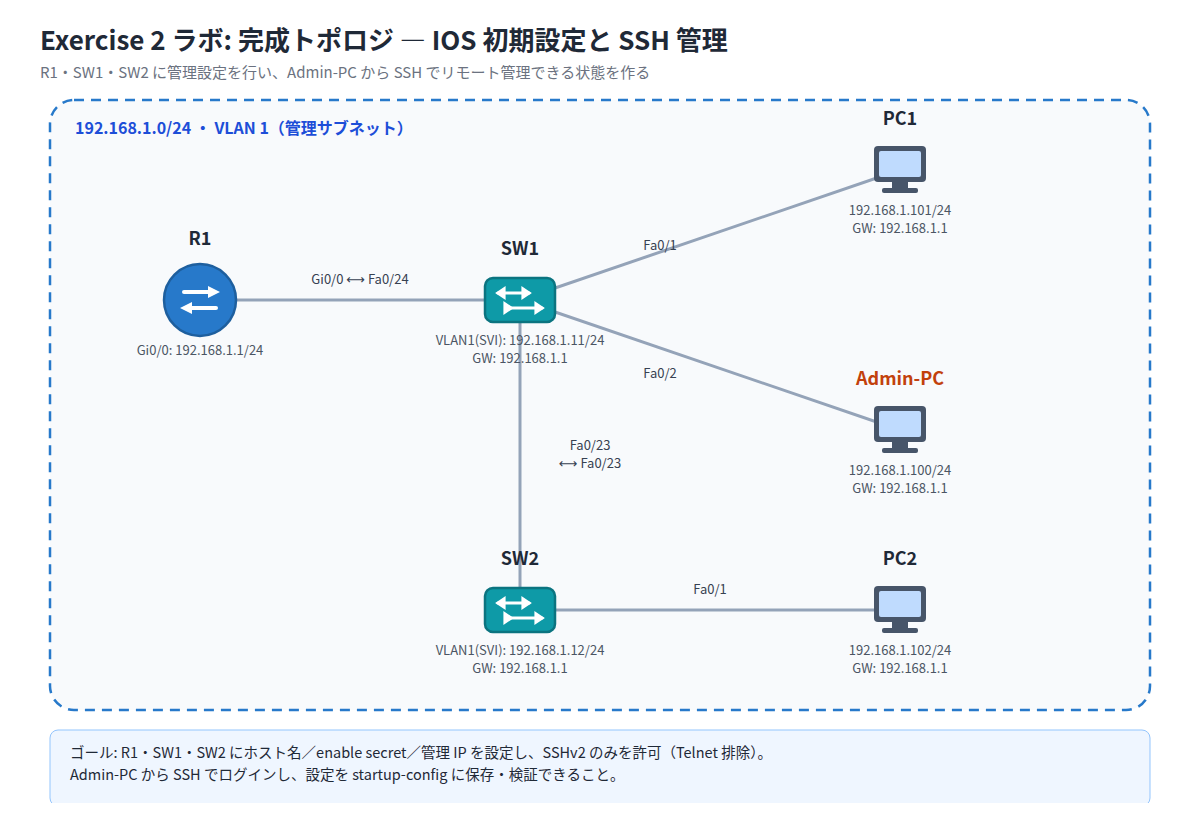
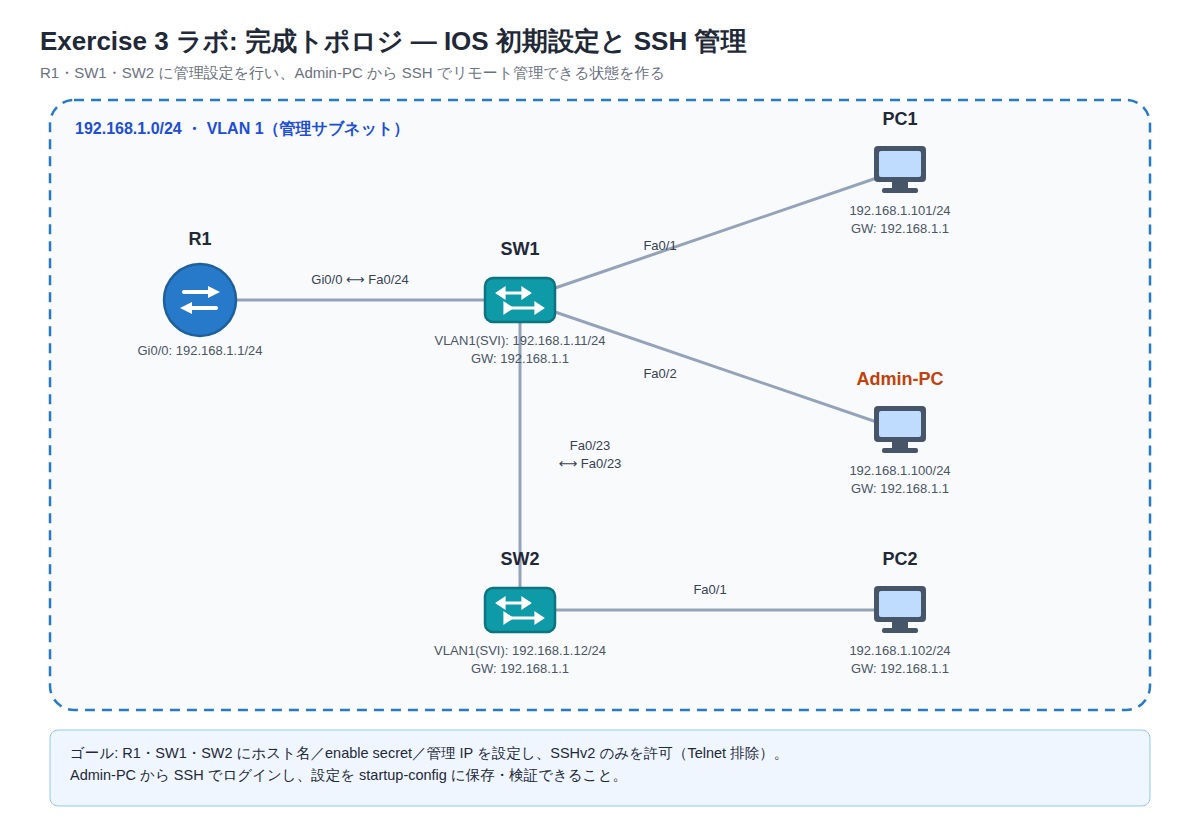
図版の PNG を再レンダリング（Exercise 番号の表示を新しい番号に更新）
SVG 内のタイトル文字列は組み替え時の一括置換で更新済みだったが、
PNG はリネームされただけで中身が旧番号のままだった。番号表示が
変わった 18 枚をヘッドレス Chromium で SVG から再生成した。
表示が変わらない図版は再生成せず、無用な差分を出していない。

diff --git a/materials/lesson1/exercise05-lecture.md b/materials/lesson1/exercise05-lecture.md
@@ -44,8 +44,7 @@ W2. SYN → SYN/ACK → ACK（3 ウェイハンドシェイク）
 もし宛先に一致する経路がルーティングテーブルに存在しない場合、ルータはそのパケットを
 **破棄**します。このとき、ICMP の到達不能メッセージを送信元へ返すことがあります。
 ICMP（Internet Control Message Protocol）とは、ping にも使われる、機器同士が通信の
-状態を伝え合うための制御用プロトコルです。Exercise15 で学んだ ICMPv6 は、この ICMP の
-IPv6 版にあたります。
+状態を伝え合うための制御用プロトコルです（IPv6 版の ICMPv6 は Exercise15 で扱います）。
 
 ### 経路がテーブルに載る 3 つの方法
 
@@ -57,7 +56,7 @@ IPv6 版にあたります。
 | **静的（スタティック）** | `S` | 管理者が `ip route` コマンドで手動登録する |
 | **動的（ダイナミック）** | `O`（OSPF）、`D`（EIGRP）、`R`（RIP）など | ルーティングプロトコルがルータ同士で経路情報を交換し自動登録する |
 
-動的ルーティングプロトコルの詳細は、次の Exercise 11・13 で扱います。
+動的ルーティングプロトコルの詳細は、Exercise 11・12（OSPF）で扱います。
 この Exercise では**直接接続**と**静的ルート**に焦点を当てます。
 
 ### show ip route の読み方
